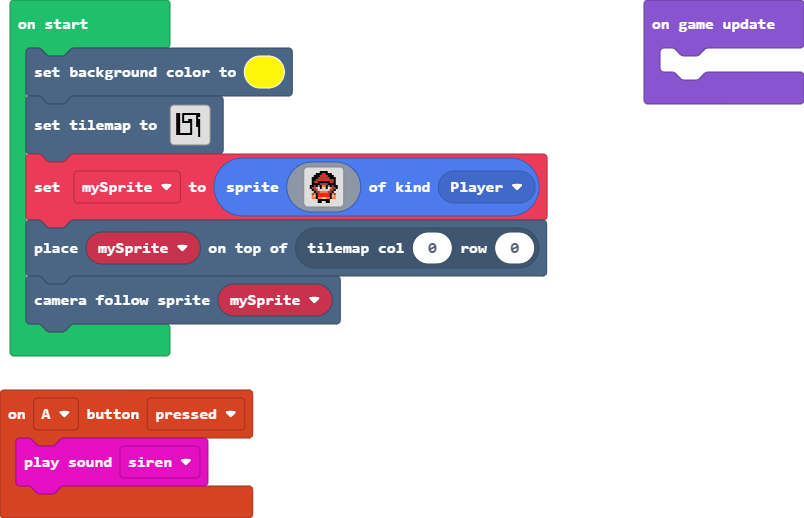
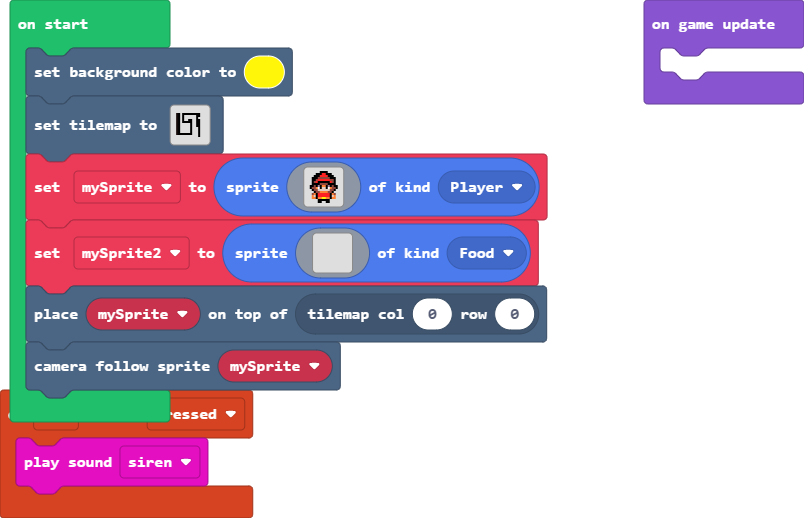
Update main.blocks, main.ts, images.g.jres, images.g.ts

Changed region(s): [[0.0, 0.4015, 0.6841, 0.834]]

diff --git a/images.g.ts b/images.g.ts
@@ -73,6 +73,25 @@ a a a . . 6 . . . . 6 . . . . .
 a a a a a a a a a a 6 . . . . . 
 . . . . . 6 6 6 6 6 . . . . . . 
 `;
+            case "image4":
+            case "myImage0":return img`
+2 2 2 2 2 2 2 2 2 2 2 2 2 2 2 2 
+2 6 6 6 6 6 6 6 6 6 6 6 6 2 2 2 
+6 6 2 2 2 2 2 2 2 2 2 2 6 6 2 2 
+2 2 2 6 6 6 6 6 6 6 6 6 6 6 2 2 
+2 2 2 2 2 2 2 2 2 6 2 6 2 2 2 2 
+2 2 2 2 2 2 2 2 2 6 2 6 2 2 2 2 
+2 2 2 2 2 2 2 2 2 6 2 6 2 2 2 2 
+2 2 2 6 6 6 2 2 2 6 2 2 6 2 2 2 
+2 2 2 6 2 2 6 6 6 6 2 2 6 2 2 2 
+2 2 2 6 2 2 2 2 2 6 6 2 6 2 2 2 
+2 2 6 2 2 2 2 2 2 2 2 2 6 2 2 2 
+2 2 6 2 2 2 2 2 2 2 2 2 6 2 2 2 
+2 2 6 6 6 2 2 2 2 2 2 2 6 2 2 2 
+2 2 2 2 2 6 6 6 6 6 6 6 6 2 2 2 
+2 2 2 2 2 2 2 2 2 2 2 2 2 2 2 2 
+2 2 2 2 2 2 2 2 2 2 2 2 2 2 2 2 
+`;
             case "image2":
             case "princessFront2":return img`
 . . . . . . 5 . 5 . . . . . . . 
@@ -164,25 +183,6 @@ bbb55dd555555555555555ddddddbb3a
 . . 4 4 f 4 4 5 5 4 4 f 4 4 . . 
 . . . . . f f f f f f . . . . . 
 . . . . . f f . . f f . . . . . 
-`;
-            case "image4":
-            case "myImage0":return img`
-7 7 7 7 7 7 7 7 7 7 7 7 7 7 7 7 
-7 a a a a a a a a a a a a 7 7 7 
-a a 7 7 7 7 7 7 7 7 7 7 a a 7 7 
-7 7 7 a a a a a a a a a a a 7 7 
-7 7 7 7 7 7 7 7 7 a 5 a 7 7 7 7 
-7 7 7 7 7 7 7 7 7 a 5 a 7 7 7 7 
-7 7 7 7 7 7 7 7 7 a 5 a 7 7 7 7 
-7 7 7 5 5 5 7 7 7 a 5 5 5 7 7 7 
-7 7 7 5 5 5 a a a a 5 5 5 7 7 7 
-7 7 7 5 5 5 5 5 5 a a 5 5 7 7 7 
-7 7 6 5 5 5 5 5 5 5 5 5 5 7 7 7 
-7 7 6 5 5 5 5 5 5 5 5 5 5 7 7 7 
-7 7 6 6 6 5 5 5 5 5 5 5 5 7 7 7 
-7 7 7 7 7 5 5 5 5 5 5 5 5 7 7 7 
-7 7 7 7 7 7 7 7 7 7 7 7 7 7 7 7 
-7 7 7 7 7 7 7 7 7 7 7 7 7 7 7 7 
 `;
         }
         return null;

diff --git a/main.ts b/main.ts
@@ -4,6 +4,24 @@ controller.A.onEvent(ControllerButtonEvent.Pressed, function () {
 scene.setBackgroundColor(5)
 tiles.setTilemap(tilemap`level1`)
 let mySprite = sprites.create(assets.image`heroWalkFront1`, SpriteKind.Player)
+let mySprite2 = sprites.create(img`
+    . . . . . . . . . . . . . . . . 
+    . . . . . . . . . . . . . . . . 
+    . . . . . . . . . . . . . . . . 
+    . . . . . . . . . . . . . . . . 
+    . . . . . . . . . . . . . . . . 
+    . . . . . . . . . . . . . . . . 
+    . . . . . . . . . . . . . . . . 
+    . . . . . . . . . . . . . . . . 
+    . . . . . . . . . . . . . . . . 
+    . . . . . . . . . . . . . . . . 
+    . . . . . . . . . . . . . . . . 
+    . . . . . . . . . . . . . . . . 
+    . . . . . . . . . . . . . . . . 
+    . . . . . . . . . . . . . . . . 
+    . . . . . . . . . . . . . . . . 
+    . . . . . . . . . . . . . . . . 
+    `, SpriteKind.Food)
 tiles.placeOnTile(mySprite, tiles.getTileLocation(0, 0))
 scene.cameraFollowSprite(mySprite)
 game.onUpdate(function () {
